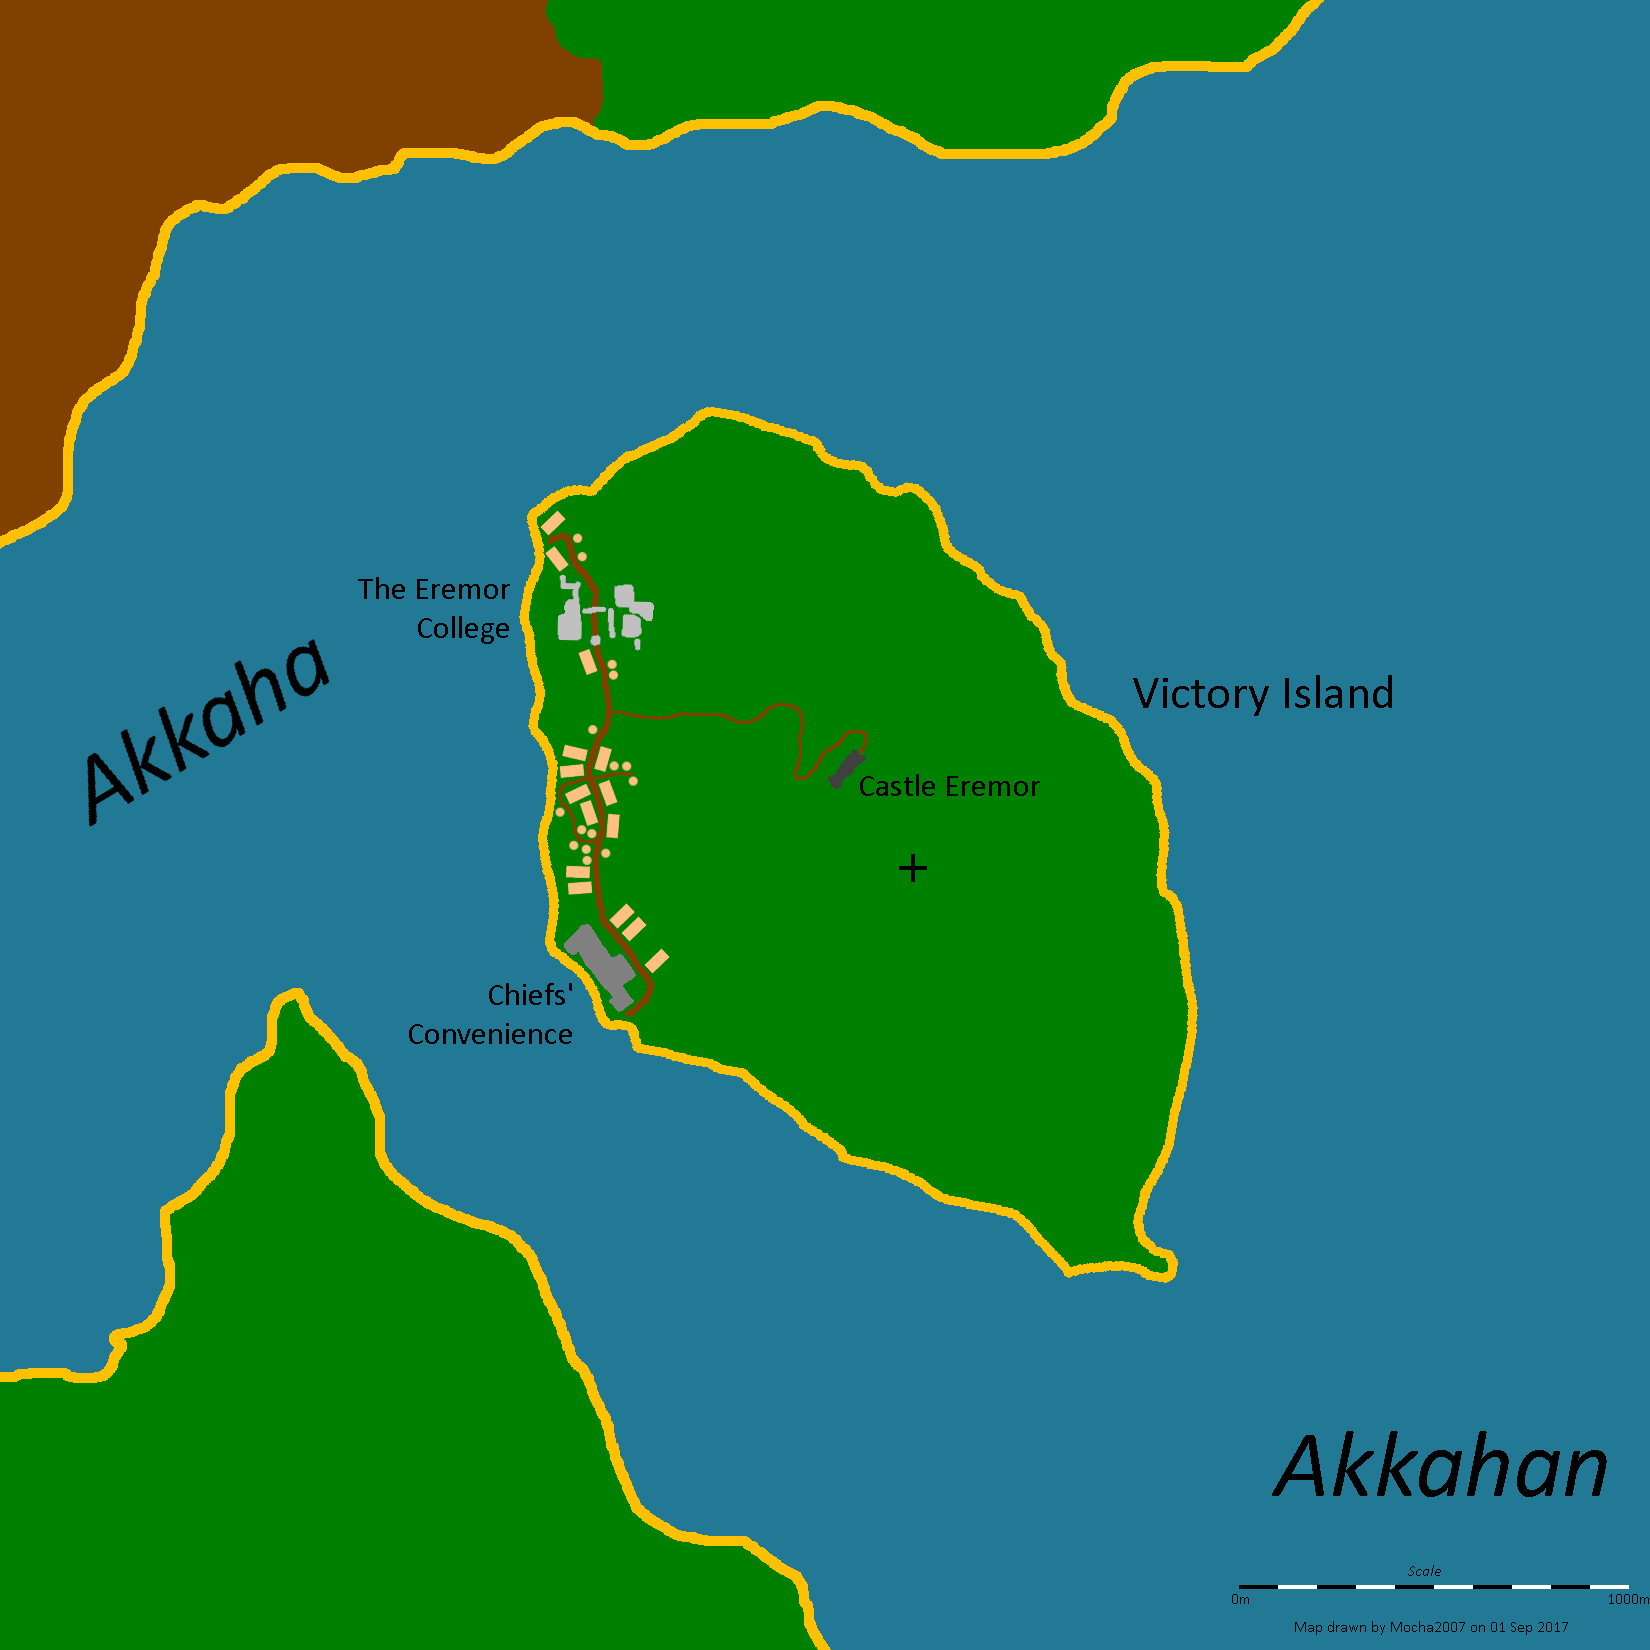
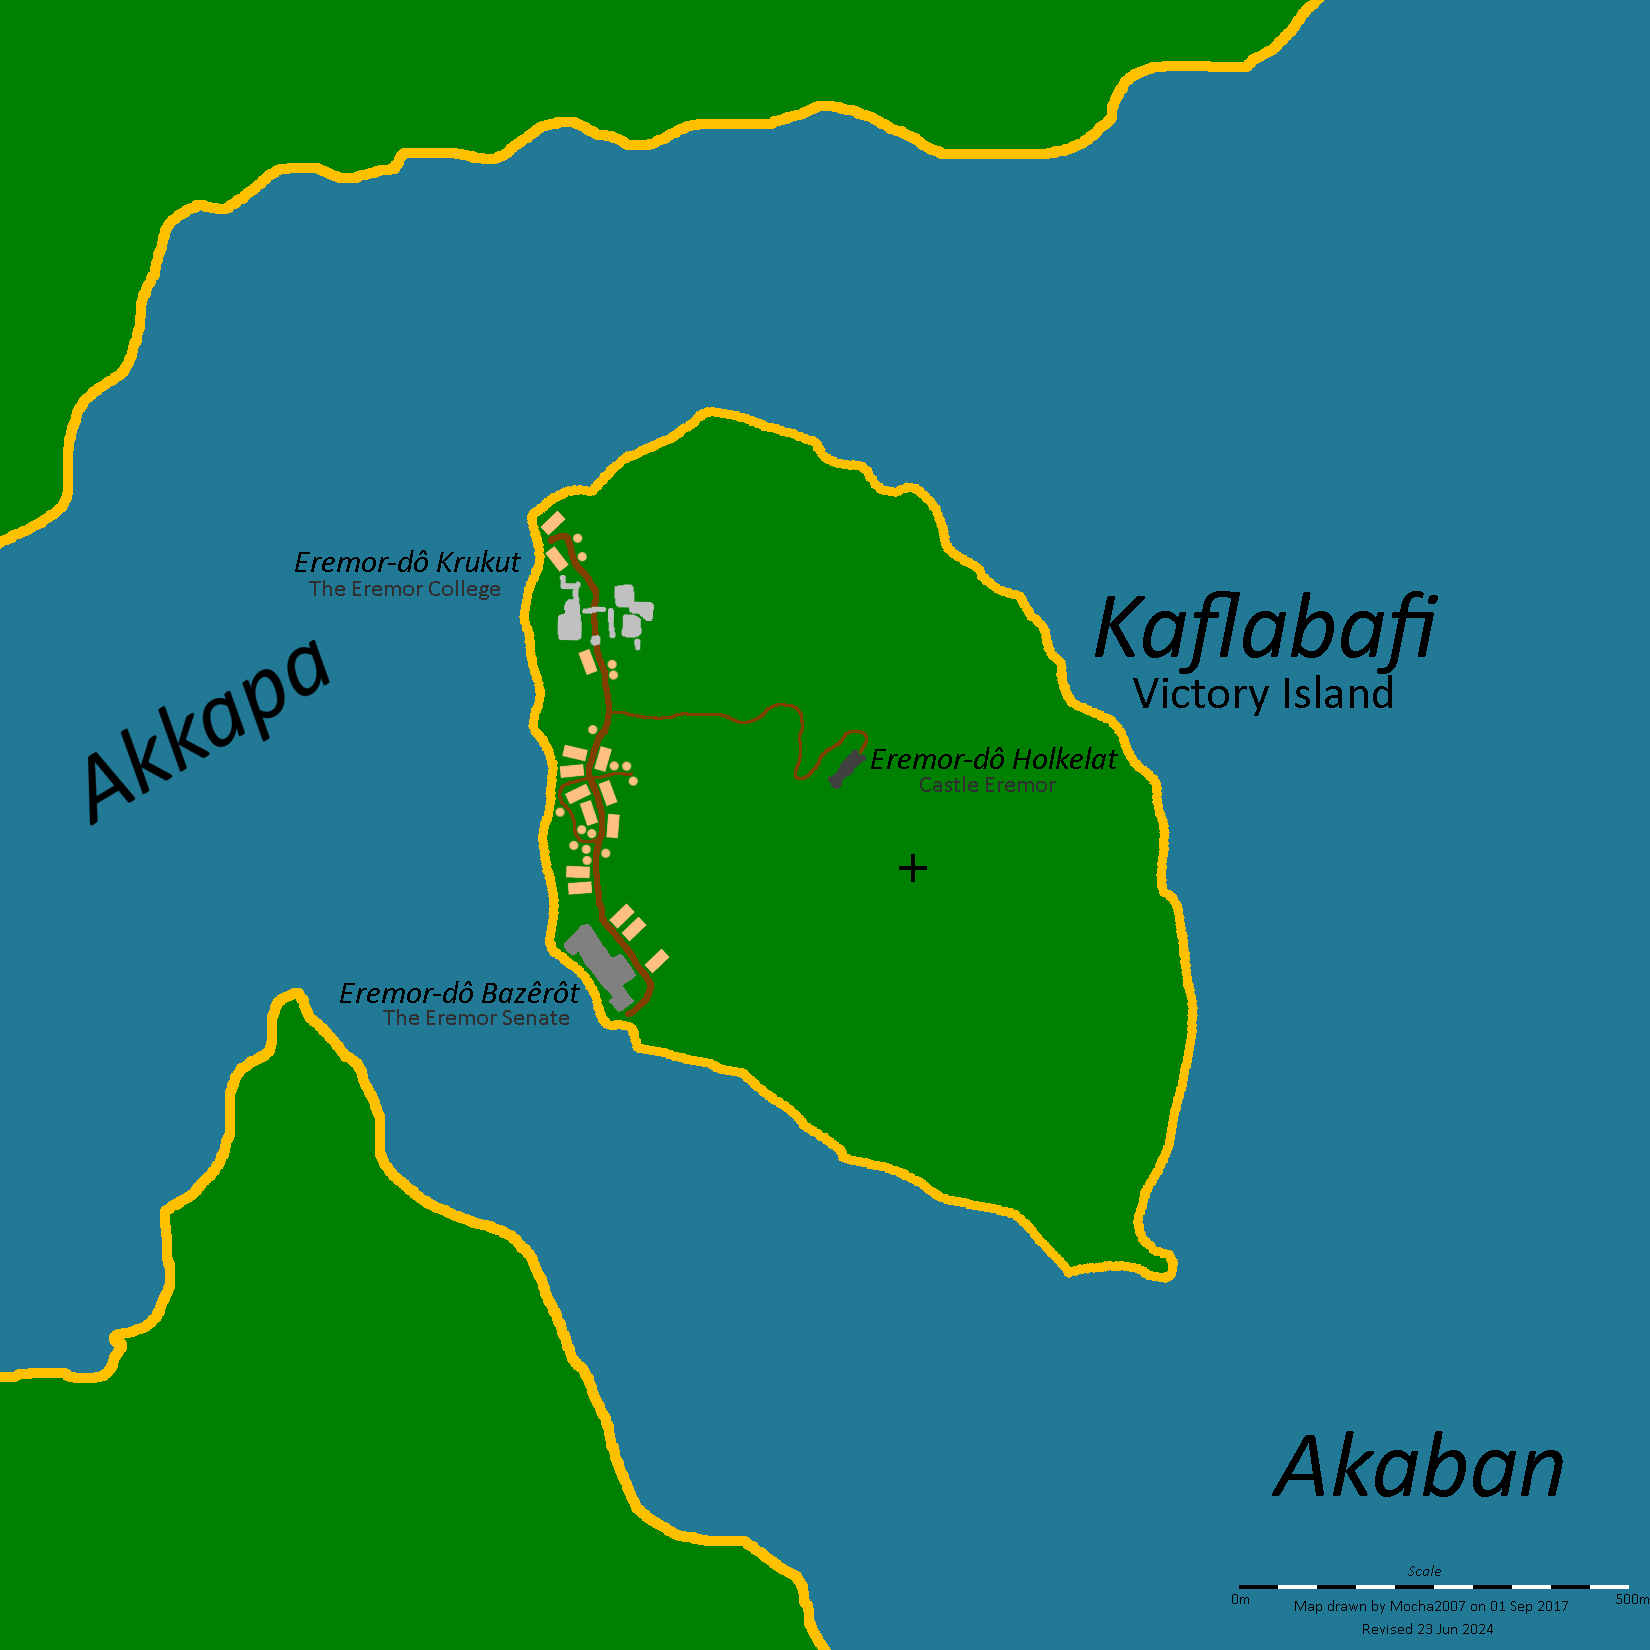
Kaflabafi map fixes and vocab additions

diff --git a/namei/namei.html b/namei/namei.html
@@ -3454,7 +3454,7 @@ winter: shadow moves SOUTH each pass
 	<!--Abstract (aka Spoilers)-->
 	Victory Island (Eremoran: <span class="eremoran">kahlabahi</span> <i>kaflabafi</i>)
 	is located at the mouth of the Akkapa, in <a href="#eremor">Eremor</a>. 
-	At its longest, it is 3 km long. 
+	At its longest, it is about 1 km long. 
 	It is notable for being the site of <em>Castle Eremor</em>, <em>Chiefs' Convenience</em>, and the <em>Eremor College</em>. 
 	People travel to and from the island in boats, most of which are located at the northern docks. 
 	The island itself is not as populous as the mainland city, since the island primarily houses administrators, the upper class, and apartments for their servants. 
